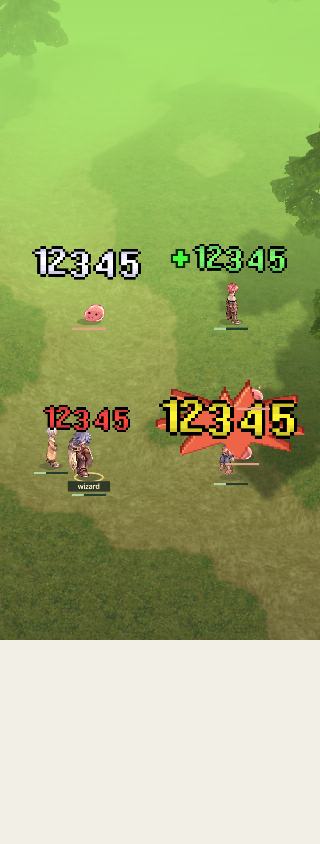
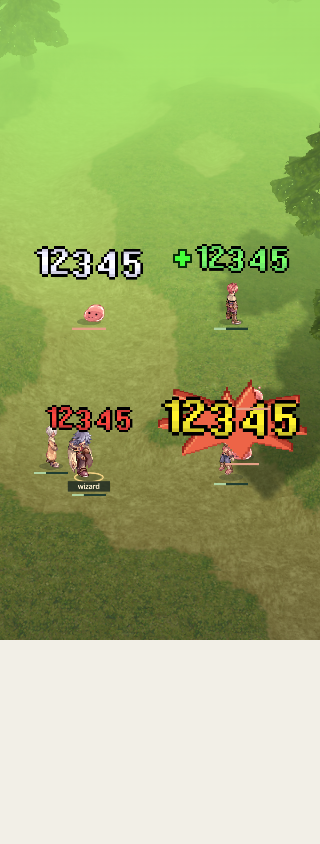
Correct floating numbers to upper-right per latest direction

diff --git a/tests/game/presentation-fidelity.test.ts b/tests/game/presentation-fidelity.test.ts
@@ -36,13 +36,13 @@ test('fire/cold bolts fall from the sky onto the target; Lightning Bolt and Arro
   assert.deepEqual(index.combat_visuals.skills.mage_lightning_bolt!.special_sfx, []); assert.deepEqual(index.combat_visuals.skills.archer_arrow_shower!.special_sfx, []);
 });
 
-test('numbers pop upward then drift upper-left consistently while shrinking and fading', () => {
+test('numbers pop upward then drift upper-right consistently while shrinking and fading', () => {
   assert.ok(NUMBER_FLIGHT_MS <= 900);
   const at = numberFlight;
   assert.ok(at(120).dy < -20, 'quick upward pop');assert.ok(Math.abs(at(0).dx)<.001);
-  for(let ms=100;ms<=NUMBER_FLIGHT_MS;ms+=50){assert.ok(at(ms).dx<at(ms-50).dx,'never drifts right');assert.ok(at(ms).dy<at(ms-50).dy,'continues upward');}
+  for(let ms=100;ms<=NUMBER_FLIGHT_MS;ms+=50){assert.ok(at(ms).dx>at(ms-50).dx,'never drifts left');assert.ok(at(ms).dy<at(ms-50).dy,'continues upward');}
   assert.ok(at(0).size > at(NUMBER_FLIGHT_MS / 2).size && at(NUMBER_FLIGHT_MS / 2).size > at(NUMBER_FLIGHT_MS).size, 'shrinks');
-  assert.ok(at(NUMBER_FLIGHT_MS).dx < -30 && at(NUMBER_FLIGHT_MS).dy < -50);
+  assert.ok(at(NUMBER_FLIGHT_MS).dx > 30 && at(NUMBER_FLIGHT_MS).dy < -50);
   assert.equal(at(100).alpha, 1); assert.equal(at(NUMBER_FLIGHT_MS).alpha, 0);
-  assert.deepEqual(at(-50),at(0));assert.ok(at(1400).dx<at(800).dx,'long-lived multi-hit totals keep drifting instead of restarting per hit');
+  assert.deepEqual(at(-50),at(0));assert.ok(at(1400).dx>at(800).dx,'long-lived multi-hit totals keep drifting instead of restarting per hit');
 });

diff --git a/src/renderer/damage-numbers.ts b/src/renderer/damage-numbers.ts
@@ -2,13 +2,13 @@ import type { NativeAsset } from './native.mjs';
 
 /** `incoming` is damage a party member takes (red, as RO shows it on your own characters). */
 export type NumberKind = 'damage' | 'heal' | 'incoming' | 'total';
-/** Pop upward, then drift upper-left. The same path serves every number kind;
+/** Pop upward, then drift upper-right. The same path serves every number kind;
  * neither hit order nor facing may reverse it. Presentation time only. */
 export const NUMBER_FLIGHT_MS = 800;
 export function numberFlight(elapsed: number): { dx: number; dy: number; size: number; alpha: number } {
   const time = Math.max(0, elapsed), p = Math.min(1, time / NUMBER_FLIGHT_MS);
   const lift = 1 - (1 - Math.min(1, time / 120)) ** 3, drift = Math.max(0, time - 80) / NUMBER_FLIGHT_MS;
-  return { dx: -48 * drift, dy: -24 * lift - 36 * drift, size: 1.25 - .45 * p, alpha: p < .7 ? 1 : Math.max(0, 1 - (p - .7) / .3) };
+  return { dx: 48 * drift, dy: -24 * lift - 36 * drift, size: 1.25 - .45 * p, alpha: p < .7 ? 1 : Math.max(0, 1 - (p - .7) / .3) };
 }
 export const NUMBER_CSS_HEIGHT = { damage:30, critical:38, total:38, heal:26, incoming:24 } as const;
 export interface NumberDrawBounds {kind:NumberKind;critical:boolean;left:number;top:number;width:number;height:number}

diff --git a/plan/review/tasks_150.md b/plan/review/tasks_150.md
@@ -1,4 +1,4 @@
-# TASK-150 — ตัวเลขเด้งแล้วลอยซ้ายบน / ตรวจแอสเซ็ตสกิลพื้น
+# TASK-150 — ตัวเลขเด้งแล้วลอยขวาบน / ตรวจแอสเซ็ตสกิลพื้น
 
 Milestone: M4 · D174 · design63
 
@@ -6,7 +6,7 @@ Milestone: M4 · D174 · design63
 TASK-146, TASK-149
 
 ## ขอบเขตและผลส่งมอบ
-ดาเมจ/คริ/ฮีล/ดาเมจรับ/ผลรวม Multi Hit เด้งแล้วลอยซ้ายบนเสมอ. เลขรวมเด้งตามยอดใหม่โดยไม่เริ่มทางลอยใหม่;เลขหลุดจากจุดโดนไม่ตามตัวที่เดิน. ตรวจ metadata และภาพที่เกี่ยวข้องเพื่อแยก native สกิลพื้นจริงออกจากไอคอนบัฟ. ไม่เปลี่ยนสูตร/เกมเพลย์/เซฟ/บาลานซ์.
+ดาเมจ/คริ/ฮีล/ดาเมจรับ/ผลรวม Multi Hit เด้งแล้วลอยขวาบนเสมอ. เลขรวมเด้งตามยอดใหม่โดยไม่เริ่มทางลอยใหม่;เลขหลุดจากจุดโดนไม่ตามตัวที่เดิน. ตรวจ metadata และภาพที่เกี่ยวข้องเพื่อแยก native สกิลพื้นจริงออกจากไอคอนบัฟ. ไม่เปลี่ยนสูตร/เกมเพลย์/เซฟ/บาลานซ์.
 
 ## ขั้นตอน
 1. เปลี่ยนเส้นทางร่วมและตรึงจุดกำเนิดเลข;คงสี/ขนาด/focus/ยอดจริง
@@ -14,15 +14,20 @@ TASK-146, TASK-149
 3. บันทึก source asset evidence;build/push/publicVercel
 
 ## เกณฑ์ตรวจรับ
-- [ ] AC-01: ทุกชนิดเด้งแล้วลอยซ้ายบน ไม่อิง parity/facing;เป้าเดินไม่ลากเลข;ผลรวมไม่รีเซ็ตพิกัดเมื่อยอดเพิ่ม;สี/ขนาด/focus/amount/impact timing/reducedmotion ยังถูกต้อง และไม่เปลี่ยนผล engine ทุกspeed
+- [ ] AC-01: ทุกชนิดเด้งแล้วลอยขวาบน ไม่อิง parity/facing;เป้าเดินไม่ลากเลข;ผลรวมไม่รีเซ็ตพิกัดเมื่อยอดเพิ่ม;สี/ขนาด/focus/amount/impact timing/reducedmotion ยังถูกต้อง และไม่เปลี่ยนผล engine ทุกspeed
 - [ ] AC-02: รายงานแอสเซ็ตพื้นระบุ source path/status/renderer และแยกไอคอนอย่างถูกต้อง;native320390/build/content-pack unchanged/public release ผ่าน
 
 ## วิธีตรวจและหลักฐาน
 Focused TS + actual native renderer captures and draw bounds; source metadata audit; build; hosted public artifacts/read-only. plan/evidence/task-150-review.json.
 
 ## Blocker / คำถาม
-ถามขอบเขตคำว่าสกิลพื้นระหว่างทำงาน;ส่วนตัวเลขไม่ขึ้นกับคำตอบ. ไม่owner/AuthSQL/env/6173/agents.
+ไม่มี. คำว่าสกิลพื้นตรวจเป็นasset inventoryในรอบนี้;พื้นทั้งหมดเป็นTASK151. ไม่owner/AuthSQL/env/6173/agents.
 
-## ผลตรวจ local
+## ผลตรวจเดิมก่อนผู้ใช้แก้ทิศ
 
 10focusedTS/native4groups/rootbuildผ่าน. GameplaySHA/content2c85/packc622เดิม. Audit nativeSTRและ6symboltexturesบันทึกในevidence150. รอpublicrelease.
+
+
+## คำตอบล่าสุด
+
+ผู้ใช้แก้ทิศเป็นขวาบน25ต.ค. ต้องตรวจnative/build/hostedของทิศใหม่ก่อนปิด150. เอฟเฟกต์พื้นทั้งหมดดำเนินในTASK151.

diff --git a/plan/evidence/task-150/README.md b/plan/evidence/task-150/README.md
@@ -1,9 +1,5 @@
-# TASK150 — ตัวเลขเด้งแล้วลอยซ้ายบน
+# TASK150 — ตัวเลขเด้งแล้วลอยขวาบน
 
-10 focused TS และ actual native Canvas4groups ผ่าน: ทุกชนิด/Hitคู่คี่/เป้าเดิน/ยอดรวมเพิ่มโดยไม่เริ่มทางใหม่/focus/reducedmotion/320390/1x2x4ผลengineตรงกัน. Native capturesใช้synthetic presentation eventsเพื่อตรวจทุกชนิดอย่างควบคุม; speed parityใช้engineจริง. ไม่ใช่physicalAndroidFPSหรือbalancebatch.
+ผู้ใช้แก้ทิศล่าสุดเป็นขวาบนหลังsource4abfb(ซ้าย)ขึ้นเว็บแล้ว. รอบใหม่10focusedTS/native4groups/rootbuildผ่าน: ทุกชนิด/Hitคู่คี่/เป้าเดิน/ยอดรวมเพิ่ม/focus/reducedmotion/320390/1x2x4ผลengineตรงกัน. Nativecontrolledpresentationevents;speedparityใช้engineจริง. Groundauditเดิมในground-assets.json;พื้นทั้งหมดทำต่อTASK151. ไม่เพิ่มassetใน150.
 
-Game content2c85/packc622/initial1621492/raw33546959เดิม. Source gameplay/doc/schemaSHAเหมือน149. Rootbuild/typecheck/boundaries/content/assets/secretsผ่าน. ดูnative.json,build.txt,gameplay-before.json.
-
-Ground auditในground-assets.json: Sanctuary/StormGust nativeSTRในruntimeแล้ว; Quagmire nativeSTRมีในlibraryแต่ยังไม่selected. 6textureชื่อเพลงที่เปิดดูเป็น32pxstatus-symbols ไม่ใช่พื้น. Localeffecttable277_groundชี้FUNC/DissonanceEffects.forEach. วงเพลง149ยังประกอบจากnativepriest_angel_ring+ain_note_01;ไม่ได้เปลี่ยนพื้นเพลงใน150หรืออ้างว่าไม่มีassetทุกแห่ง.
-
-รอpublicreleaseก่อนปิดAC02. ไม่owner/AuthSQL/env/6173/agents.
+Content2c85/packc622/initial1621492/raw33546959เดิม. ไม่owner/AuthSQL/env/6173/agents. รอhostedทิศขวาบนก่อนปิด150. หลักฐานซ้ายบนก่อนแก้เป็นประวัติ ไม่ใช้ปิดงานรอบขวาบน.

diff --git a/plan/design/63-number-flight-and-ground-assets.md b/plan/design/63-number-flight-and-ground-assets.md
@@ -1,6 +1,6 @@
 # D174 — ทิศตัวเลขและหลักฐานสกิลพื้น
 
-ทุก floating number ใช้การเด้งขึ้น120ms แล้ว drift ซ้ายบนตาม presentation clock, ไม่มี sequence parity/facing/random direction. อายุ800msสำหรับ hit/heal,ฐานขนาดและสีnativeเดิม พร้อมpop/shrinkร่วมกัน. เก็บจุดกำเนิดตอนแสดงครั้งแรก ไม่ตามการเดิน/เปลี่ยนcastphaseของเป้า. Motion off คงเลขนิ่ง.
+ทุก floating number ใช้การเด้งขึ้น120ms แล้ว drift ขวาบนตาม presentation clock, ไม่มี sequence parity/facing/random direction. อายุ800msสำหรับ hit/heal,ฐานขนาดและสีnativeเดิม พร้อมpop/shrinkร่วมกัน. เก็บจุดกำเนิดตอนแสดงครั้งแรก ไม่ตามการเดิน/เปลี่ยนcastphaseของเป้า. Motion off คงเลขนิ่ง.
 
 Multi-hit total คงเงื่อนไขเฉพาะ direct skill หลายHit/หนึ่งaction/หนึ่งtarget/ผู้โฟกัส. ใช้ first impact เป็นจุดเริ่ม drift ที่ช้ากว่า hitครึ่งหนึ่ง, latest impact เป็นจังหวะเด้ง/เวลาคงยอดและfade;ยอดใหม่จึงไม่ย้อนขวา. เก็บoriginต่อsource/action/targetแล้วทิ้งเมื่อหมดผล. ไม่แก้ damage/engine/เหตุการณ์/save/content.
 

diff --git a/AGENTS.md b/AGENTS.md
@@ -2,7 +2,7 @@
 
 ## Floating number direction (25 October2026,D174/TASK150)
 
-All hit/critical/heal/incoming numbers use numberFlight: pop upward then drift upper-left; no sequence parity/facing/random direction. Freeze origin at first visible contact, including cast-phase baseline, so a walking target does not drag the number. Multi-hit totals use started_at_ms (first actual visual contact) for slower continuous drift, latest hit for bounce/hold/fade; do not reset flight on each increment. Keep bitmap fonts/colors/size targets/focus/actual totals/impact delay and reduced-motion static. Renderer-only: content/pack/engine unchanged. Ground audit150 separates real Sanctuary/StormGust/Quagmire STR from six32pxsong status symbols; D173song circle remains an explicit native-texture composition, not a claimed original ground-song clip. See design63/latestHANDOFF for release status.
+User corrected direction to upper-right after source4abfb (left) shipped. All hit/critical/heal/incoming numbers use numberFlight: pop upward then drift upper-right; no sequence parity/facing/random direction. Freeze origin at first visible contact, including cast-phase baseline, so a walking target does not drag the number. Multi-hit totals use started_at_ms (first actual visual contact) for slower continuous drift, latest hit for bounce/hold/fade; do not reset flight on each increment. Keep bitmap fonts/colors/size targets/focus/actual totals/impact delay and reduced-motion static. Renderer-only: content/pack/engine unchanged. Ground audit150 separates real Sanctuary/StormGust/Quagmire STR from six32pxsong status symbols; D173song circle remains an explicit native-texture composition, not a claimed original ground-song clip. See design63/latestHANDOFF for release status.
 
 ## Performer song auras (25 October2026,D173/TASK149)
 

diff --git a/plan/decisions.md b/plan/decisions.md
@@ -344,6 +344,8 @@ Accepteduserintent: larger damage numbers; allmajor skills must use real local a
 ผู้ใช้ขอวงออร่าเพลงBard/Dancer. วงใต้ผู้ร่ายและnativeโน้ตตามสถานะจริง/รวมstackเพื่อการแสดงผล;ไม่มีrange/channelหรือบัฟเพิ่ม. [design62](design/62-performance-auras.md).
 
 
-## D174 — ตัวเลขเด้งแล้วลอยซ้ายบน (25 ตุลาคม2026)
+## D174 — ตัวเลขเด้งแล้วลอยขวาบน (25 ตุลาคม2026)
 
 ผู้ใช้ยืนยันทิศเดียวทุกตัวเลข;เอาการสลับตามHitออก. เลขรวมยังเด้งเมื่อยอดเพิ่มแต่ไม่เริ่มทางลอยใหม่. ดูdesign63/TASK150. ตรวจสกิลพื้นจากsourceจริง แยกไอคอนบัฟออกจากเอฟเฟกต์. ไม่เปลี่ยนengine/บาลานซ์.
+
+ผู้ใช้แก้คำตอบล่าสุดเป็นขวาบน;ทิศซ้ายบนในsource4abfbถูกแทนในการแก้ถัดไป. พื้นทั้งหมดติดตามTASK151.

diff --git a/plan/overview.md b/plan/overview.md
@@ -1,6 +1,6 @@
 # ภาพรวมแผนและความคืบหน้า
 
-[TASK150](review/tasks_150.md): ตัวเลขเด้งแล้วลอยซ้ายบน/ตรวจแอสเซ็ตสกิลพื้น ผ่านnative4/10focused อยู่reviewรอbuild/hosted · D174/design63.
+[TASK150](review/tasks_150.md): ตัวเลขเด้งแล้วลอยขวาบน/ตรวจแอสเซ็ตสกิลพื้น ผู้ใช้แก้ทิศเป็นขวาบน;กำลังตรวจรอบใหม่ · D174/design63.
 
 [TASK149](done/tasks_149.md) ขึ้นVercel source`6c2fbf464`แล้ว:วงออร่าเพลงBard/Dancerจากnativeassets/statusจริง,blue/pink+โน้ต/ตามคนร่าย/หมดผลแล้วหาย.18focused/native5/rootbuild/hosted4groupsผ่าน;gameplayเดิม/initialdownloadเดิม. [ผลตรวจ](evidence/task-149-review.json).
 

diff --git a/plan/HANDOFF.md b/plan/HANDOFF.md
@@ -1,5 +1,9 @@
 # Handoff ระหว่าง agent
 
+## 25 ต.ค.2026 · Codex — ACTIVE user correction upper-right + all ground effects
+
+- User answered optional clarification: ALL ground effects and direction is UPPER-RIGHT, not left. Source4abfb(left) had shipped/hostedpassed before correction;150reopenedreview and flight/tests/docs changedright. Neednewnative/build/hosted.151willownall-groundnativecoverage. No owner/SQL/env/6173/agents. Old150proof is historicaluntilreplaced.
+
 ## 25 ต.ค.2026 · Codex — TASK150 local complete / publish next
 
 - User asks allnumberspopupthenupper-left;renderer-only commonflight fordamage/critical/heal/incoming andslowtotaldrift, noHitparity. Contactoriginfixedagainsttargetmovement/castphase. Totalfirstimpactdrift/latestimpactbounceholdfade;stableactualsum/focus/reducedmotion.10focused/native4groups/mobile320390/real1x2x4unchangedengine/rootbuild/M0passed. Content2c85/packc622/initial1621492/raw33546959allunchanged;noasset/gameplay/source-data changes.
